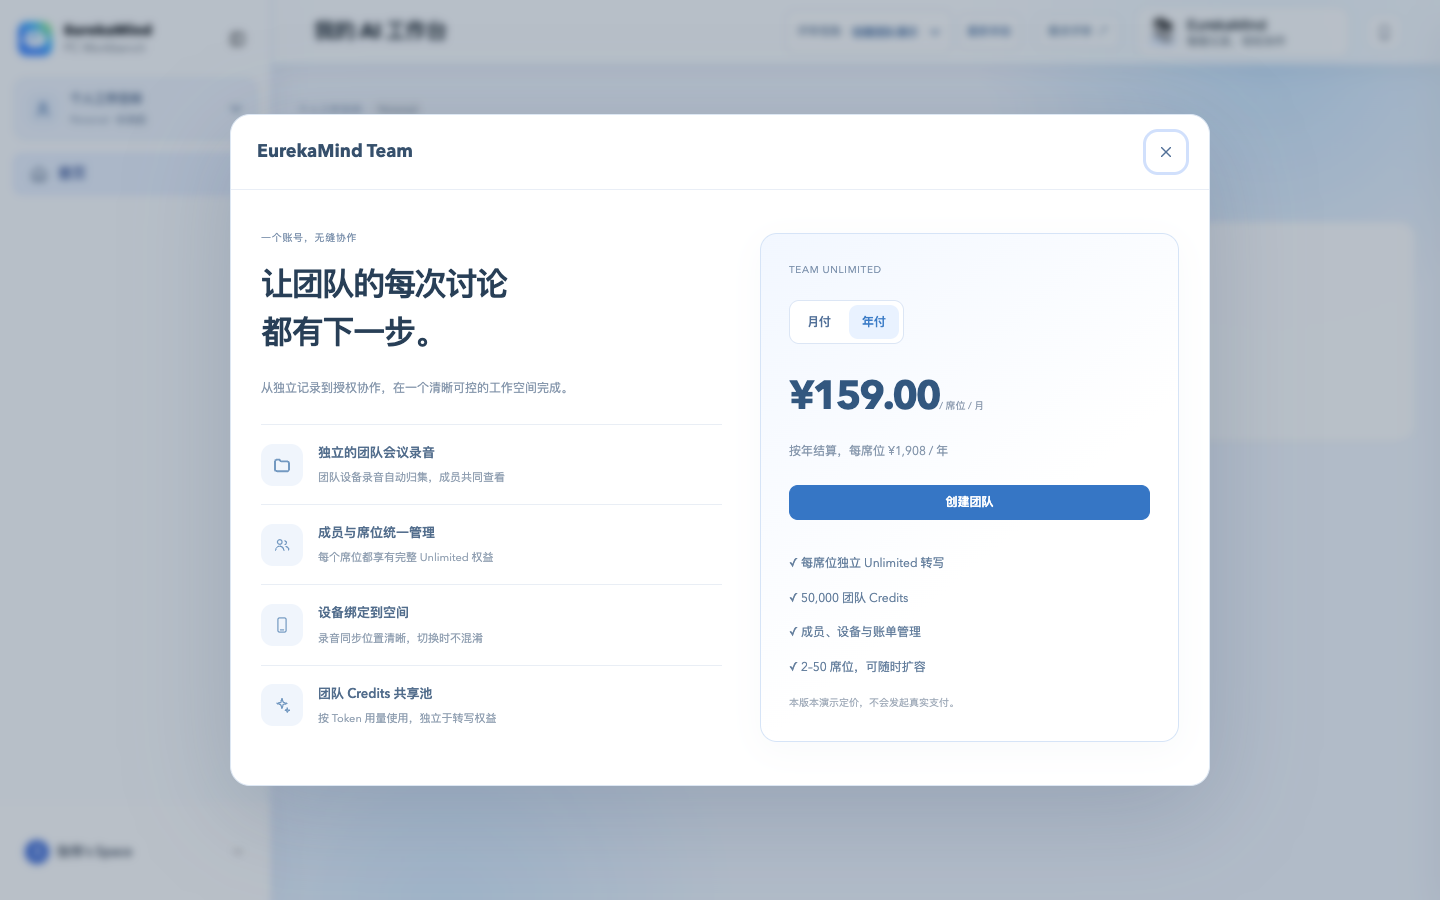
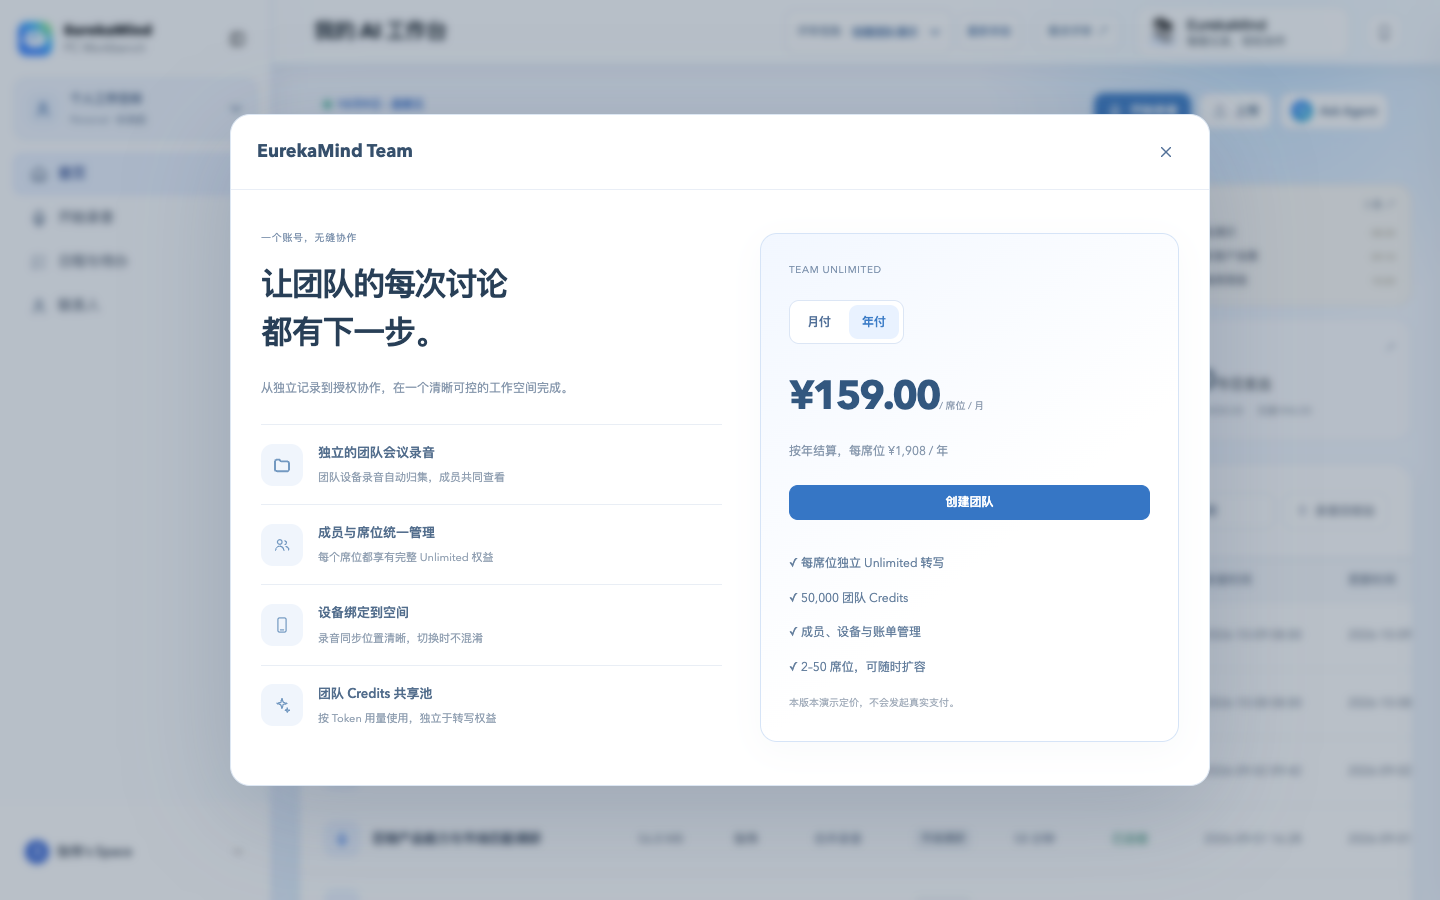
fix: preserve personal workbench in team creation demo

diff --git a/tests/e2e/team-creation-demo.spec.ts b/tests/e2e/team-creation-demo.spec.ts
@@ -4,6 +4,17 @@ import { creationDemoSeed, CREATION_DEMO_KEY, CREATION_DEMO_DRAFT } from "../../
 
 const ORIGINAL_DRAFT = "eureka:team-setup:v1";
 const toggle = (page: Page) => page.getByRole("combobox", { name: "评审视角", exact: true });
+async function openCreate(page: Page) {
+  await page.locator("#ws-switcher").click();
+  await page.getByRole("button", { name: "创建团队工作空间", exact: true }).click();
+}
+async function expectPersonalWorkbench(page: Page) {
+  await expect(page.locator("#recent-meeting-title")).toBeVisible();
+  await expect(page.locator("#contacts-entry,.sidebar [data-contacts-entry=true]")).toBeVisible();
+  await expect(page.locator("#todos-entry")).toBeVisible();
+  await expect(page.locator("#start-recording")).toBeVisible();
+  await expect(page.getByRole("heading", { name: "创建团队演示", exact: true })).toHaveCount(0);
+}
 
 test("creation demo starts without membership and keeps personal device ownership valid", () => {
   const state = creationDemoSeed();
@@ -27,6 +38,9 @@ test("existing team account can demo checkout, recovery, invitation, restart and
   const originalRaw = await page.evaluate((key) => localStorage.getItem(key), M.KEY);
   await toggle(page).selectOption("creation-demo");
   await expect(page).toHaveURL(/demo=create-team/);
+  await expectPersonalWorkbench(page);
+  await expect(page.getByRole("dialog")).toHaveCount(0);
+  await openCreate(page);
   await expect(page.getByRole("dialog", { name: "EurekaMind Team", exact: true })).toBeVisible();
   if (process.env.PRD_CAPTURE) await page.screenshot({ path: "src/prototype/prd/images/team-creation-demo.png", animations: "disabled" });
   await page.getByRole("button", { name: "创建团队", exact: true }).click();
@@ -35,6 +49,8 @@ test("existing team account can demo checkout, recovery, invitation, restart and
   await page.getByRole("button", { name: "模拟支付失败", exact: true }).click();
   await expect(page.getByRole("dialog")).toContainText("模拟支付失败");
   await page.reload();
+  await expectPersonalWorkbench(page);
+  await openCreate(page);
   await expect(page.getByRole("dialog", { name: "确认团队订单", exact: true })).toContainText("评审创建的新团队");
   await page.getByRole("button", { name: "模拟支付并开通", exact: true }).click();
   await expect(page.getByRole("dialog")).toContainText("团队已准备好");
@@ -53,15 +69,17 @@ test("existing team account can demo checkout, recovery, invitation, restart and
   expect(await page.evaluate((key) => localStorage.getItem(key), M.KEY)).toBe(originalRaw);
   expect(await page.evaluate((key) => localStorage.getItem(key), ORIGINAL_DRAFT)).toBe("original draft must remain untouched");
   await page.getByRole("button", { name: "重新体验", exact: true }).click();
-  await expect(page.getByRole("dialog", { name: "EurekaMind Team", exact: true })).toBeVisible();
+  await expectPersonalWorkbench(page);
+  await expect(page.getByRole("dialog")).toHaveCount(0);
   const demo = await page.evaluate((key) => JSON.parse(localStorage.getItem(key)!), CREATION_DEMO_KEY);
   expect(demo.spaces).toHaveLength(1);
   expect(demo.orders).toHaveLength(0);
   expect(await page.evaluate((key) => localStorage.getItem(key), CREATION_DEMO_DRAFT)).toBeNull();
+  await openCreate(page);
   await page.getByRole("button", { name: "创建团队", exact: true }).waitFor();
   await page.getByRole("button", { name: "关闭", exact: true }).click();
   await expect(page).toHaveURL(/view=home/);
-  await expect(page.getByRole("heading", { name: "创建团队演示", exact: true })).toBeVisible();
+  await expectPersonalWorkbench(page);
   await toggle(page).selectOption("exit-demo");
   await expect(page).toHaveURL(/view=members&space=team-eureka/);
   await expect(page).not.toHaveURL(/demo=/);
@@ -69,19 +87,34 @@ test("existing team account can demo checkout, recovery, invitation, restart and
   expect(await page.evaluate((key) => localStorage.getItem(key), M.KEY)).toBe(originalRaw);
 });
 
-test("direct demo links support cancellation, joining and safe personal-page boundaries", async ({ page }) => {
+test("demo keeps normal personal modules and supports joining through the workspace menu", async ({ page }) => {
   await page.goto("/workbench/?view=create-team&space=personal&demo=create-team");
   await expect(page.getByRole("dialog", { name: "EurekaMind Team", exact: true })).toBeVisible();
   await page.getByRole("button", { name: "创建团队", exact: true }).waitFor();
   await page.getByRole("button", { name: "关闭", exact: true }).click();
   await expect(page).toHaveURL(/view=home/);
-  await page.getByRole("button", { name: "体验接受邀请", exact: true }).click();
+  await expectPersonalWorkbench(page);
+  await page.locator(".sidebar [data-contacts-entry=true]").click();
+  await expect(page.locator("#contacts-root")).toBeVisible();
+  await expect(page.locator(".contacts-person-card").first()).toBeVisible();
+  await expect(page).toHaveURL(/demo=create-team/);
+  await openCreate(page);
+  await page.getByRole("button", { name: "创建团队", exact: true }).waitFor();
+  await page.getByRole("button", { name: "关闭", exact: true }).click();
+  await expect(page.locator("#contacts-root")).toBeVisible();
+  await page.locator("#todos-entry").click();
+  await expect(page.locator("#personal-actions")).toBeVisible();
+  await page.goto("/workbench/?view=thoughts&space=personal&demo=create-team");
+  await expect(page.getByRole("heading", { name: "全部闪念", exact: true }).last()).toBeVisible();
+  await page.goto("/workbench/?view=settings&space=personal&demo=create-team");
+  await expect(page.locator("#personal-settings")).toBeVisible();
+  await page.locator("#ws-switcher").click();
+  await page.getByRole("button", { name: /工作空间邀请/ }).click();
   await page.getByRole("button", { name: "接受并进入", exact: true }).click();
   await expect(page.locator("#ws-switcher")).toContainText("增长研究小组");
   await expect(page).toHaveURL(/demo=create-team/);
   await page.goto("/workbench/?view=contacts&space=personal&demo=create-team");
-  await expect(page.getByRole("heading", { name: "创建团队演示", exact: true })).toBeVisible();
-  await expect(page.locator("#contacts-root")).toHaveCount(0);
+  await expect(page.locator("#contacts-root")).toBeVisible();
   await toggle(page).selectOption("exit-demo");
   await expect(page).not.toHaveURL(/demo=/);
   await expect(page.locator("#recent-meeting-title")).toBeVisible();

diff --git a/src/features/application/application.tsx b/src/features/application/application.tsx
@@ -6,7 +6,6 @@ import { useAppRoute } from "./route";
 import { useSpaces } from "@/features/spaces/use-spaces";
 import { useReviewPerspective } from "@/features/spaces/review-perspective";
 import { ReviewPerspectiveSwitch } from "@/features/spaces/review-switch";
-import { CreationDemoHome } from "@/features/spaces/creation-demo-home";
 import { M } from "@/features/spaces/model/store";
 import { Workbench } from "@/features/workbench/workbench";
 
@@ -76,9 +75,7 @@ export function Application() {
 
   const props = { controller: spaces, space: w.id, actor };
   const content =
-    route.creationDemo && (!team || route.view === "settings") ? (
-      <CreationDemoHome controller={spaces} view={route.view} />
-    ) : route.view === "home" ? (
+    route.view === "home" ? (
       team ? (
         <TeamHome {...props} />
       ) : (
@@ -158,7 +155,6 @@ export function Application() {
       space={w.id}
       actor={actor}
       controller={spaces}
-      creationDemo={route.creationDemo}
       reviewSwitch={<ReviewPerspectiveSwitch state={actualSpaces.state!} space={w.id} actor={actor} view={route.view} memberView={route.memberView} creationDemo={route.creationDemo} />}
       contactCount={home.data?.contactCount}
     >

diff --git a/src/features/reference/shell.tsx b/src/features/reference/shell.tsx
@@ -26,7 +26,6 @@ export function ReferenceShell({
   actor,
   controller,
   reviewSwitch,
-  creationDemo = false,
   contactCount = 6,
 }: {
   children: ReactNode;
@@ -36,7 +35,6 @@ export function ReferenceShell({
   actor: string;
   controller: SpacesController;
   reviewSwitch?: ReactNode;
-  creationDemo?: boolean;
   contactCount?: number;
 }) {
   const [pageTitle, setPageTitle] = useState(title);
@@ -255,7 +253,7 @@ export function ReferenceShell({
                   <span className="nav-label">首页</span>
                 </span>
               </button>
-              {!creationDemo || team ? <button
+              <button
                 className={`nav-item recording-nav-item${view === "recording" ? " active" : ""}`}
                 aria-current={view === "recording" ? "page" : undefined}
                 id="start-recording"
@@ -270,8 +268,8 @@ export function ReferenceShell({
                   </span>
                   <span className="nav-label">开始录音</span>
                 </span>
-              </button> : null}
-              {!team && !creationDemo ? (
+              </button>
+              {!team ? (
                 <>
                   <button
                     type="button"

diff --git a/src/features/spaces/creation-demo.ts b/src/features/spaces/creation-demo.ts
@@ -19,7 +19,7 @@ export function startCreationDemo(restart = false) {
     if (!restart) sessionStorage.setItem(RETURN_KEY, location.href);
     localStorage.setItem(CREATION_DEMO_KEY, JSON.stringify(creationDemoSeed()));
     localStorage.removeItem(CREATION_DEMO_DRAFT);
-    const url = new URL(appUrl("create-team", "", "personal", M.SELF), location.origin);
+    const url = new URL(appUrl("home", "", "personal", M.SELF), location.origin);
     url.searchParams.set("demo", "create-team");
     url.searchParams.delete("perspective");
     location.assign(url.href);
